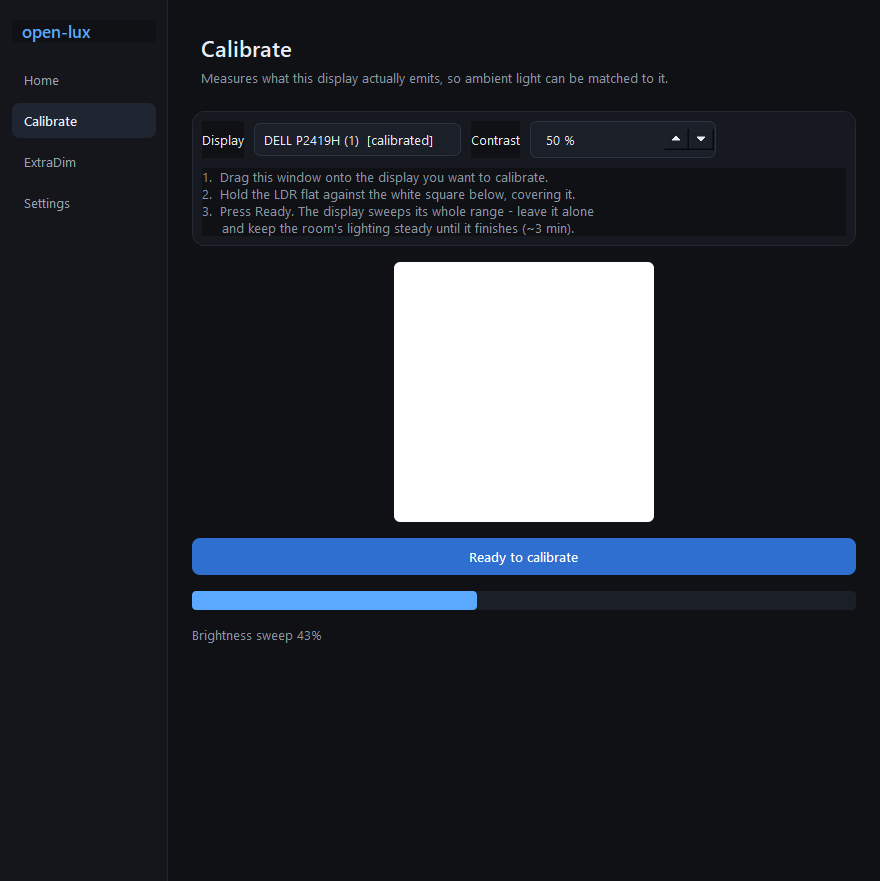
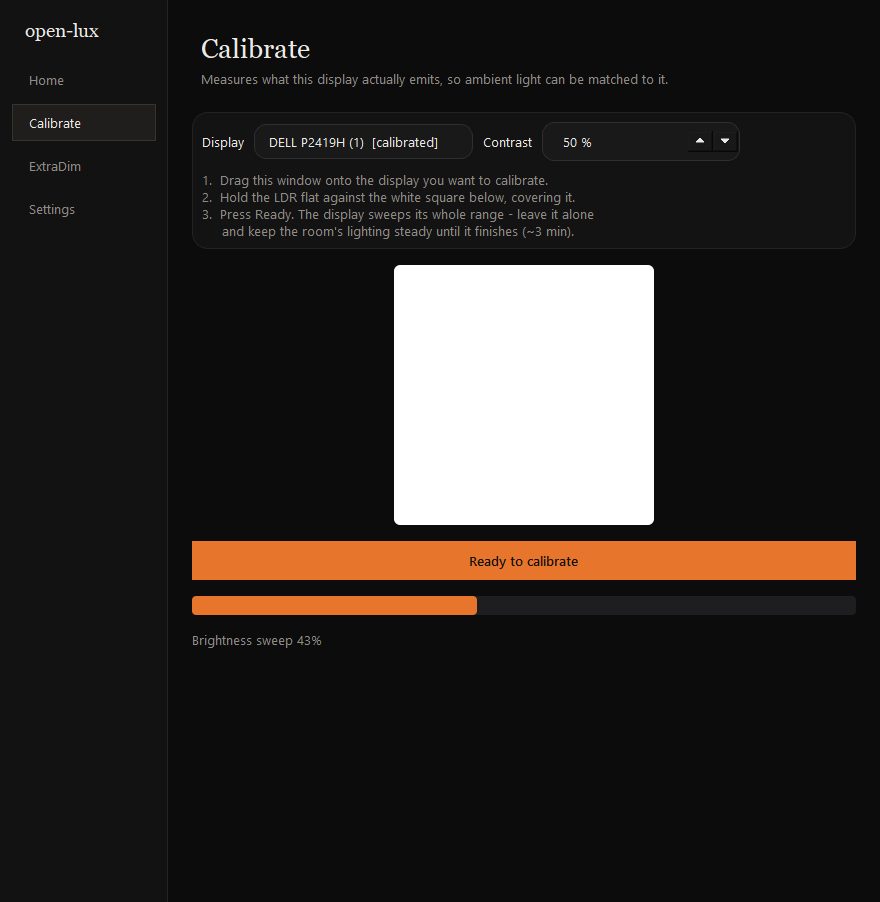
Restyle: warm dark, orange accent, serif display type
Reworked the theme against career-ops.org as a reference: warm near-black
instead of the blue-tinted dark, a single orange accent in place of the blue,
pill buttons, rounded-rectangle fields, hairline borders, and a serif for
headings and the lux readout against a sans body.

The graph palette moves with it -- orange where brightness is doing the work,
violet where ExtraDim has handed over to contrast -- as does the app icon.

Three Qt stylesheet quirks worth knowing, since none behave like CSS:

  - border-radius: 999px does not clamp to a pill, it silently renders as a
    small radius. The values are now set just over half the control height,
    which Qt does clamp.
  - `border: none` also discards an inherited border-radius, so the primary
    button has to restate it or it comes out square.
  - Giving a QLabel padding makes it start painting a styled background;
    without a global transparent rule the sidebar title drew itself inverted.

The spin buttons are left unstyled on purpose: styling ::up-button removes
Qt's built-in arrow glyphs, and getting them back means shipping image assets
for a control that already works.

diff --git a/openlux/curve.py b/openlux/curve.py
@@ -18,14 +18,15 @@ from PySide6.QtWidgets import QSizePolicy, QWidget
 
 from .core import LUX_MAX, LUX_MIN, Curve
 
-BG = QColor("#16181d")
-GRID = QColor("#272b33")
-AXIS = QColor("#59606e")
-LINE = QColor("#5aa9ff")
-EXTRA = QColor("#c07bff")  # ExtraDim region
-GHOST = QColor("#3d4450")  # what was asked for but cannot be reached
-KNOT = QColor("#e8ecf4")
-NOW = QColor("#4ad2a0")
+# Kept in step with style.qss by hand -- two files, one palette.
+BG = QColor("#101011")
+GRID = QColor("#232325")
+AXIS = QColor("#6b6763")
+LINE = QColor("#e8752c")  # the accent: brightness is doing the work
+EXTRA = QColor("#a97cf5")  # ExtraDim: contrast has taken over
+GHOST = QColor("#3a3a3d")  # asked for, but the panel cannot reach it
+KNOT = QColor("#ece9e4")
+NOW = QColor("#5ec98f")  # where the room is right now
 
 MARGIN_L, MARGIN_R, MARGIN_T, MARGIN_B = 46, 12, 12, 26
 GRAB_PX = 14
@@ -169,7 +170,8 @@ class CurveWidget(QWidget):
 
     def _now(self, p, r):
         x = self._px(self.ambient)
-        p.setPen(QPen(NOW, 1, Qt.DashLine))
+        # Dimmed, or a 1px dashed line reads as plain white against the grid.
+        p.setPen(QPen(NOW.darker(160), 1, Qt.DashLine))
         p.drawLine(QPointF(x, r.top()), QPointF(x, r.bottom()))
         p.setBrush(NOW)
         p.setPen(Qt.NoPen)

diff --git a/openlux/ui.py b/openlux/ui.py
@@ -61,10 +61,10 @@ def draw_icon(size=256):
     p.setPen(Qt.NoPen)
 
     u = size / 256.0
-    p.setBrush(QColor("#16181d"))
+    p.setBrush(QColor("#121213"))
     p.drawRoundedRect(QRectF(0, 0, size, size), 56 * u, 56 * u)
 
-    p.setBrush(QColor("#5aa9ff"))
+    p.setBrush(QColor("#e8752c"))
     p.drawEllipse(QPointF(size / 2, size / 2), 46 * u, 46 * u)
 
     p.translate(size / 2, size / 2)
